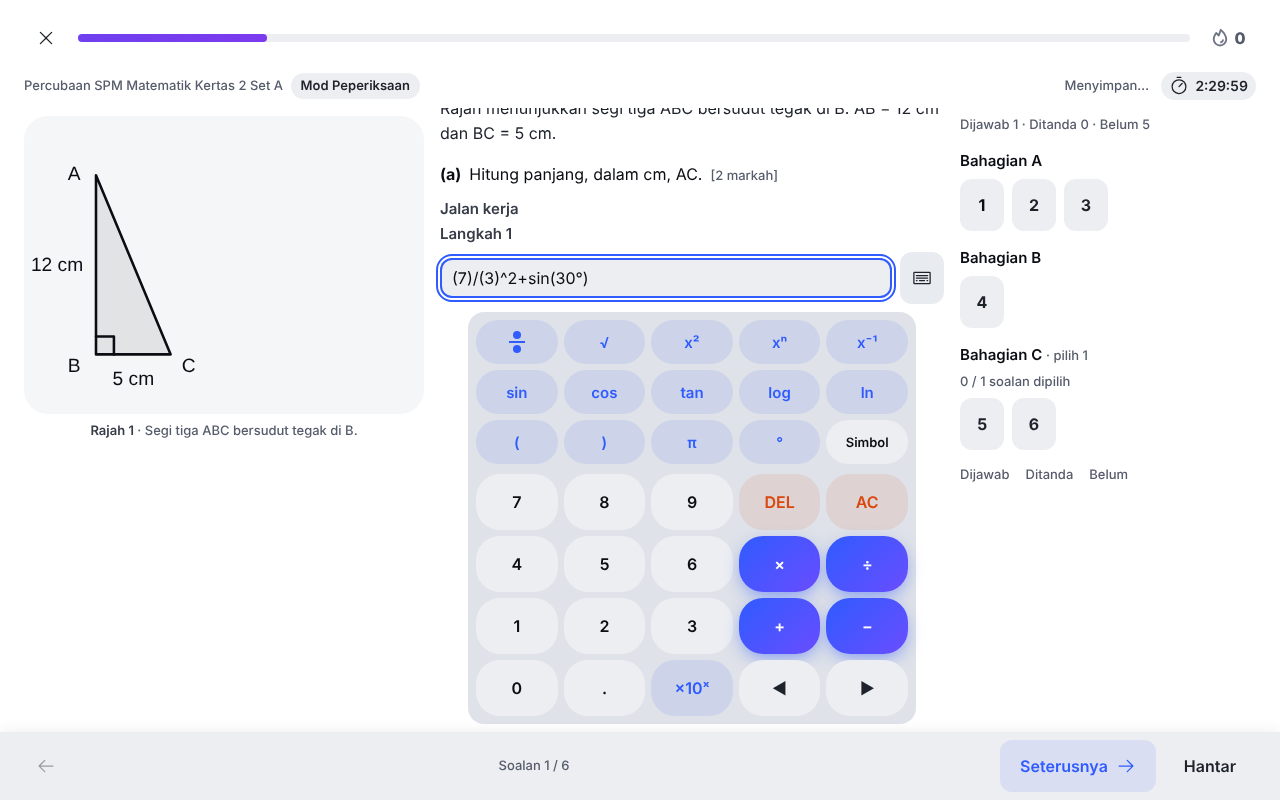
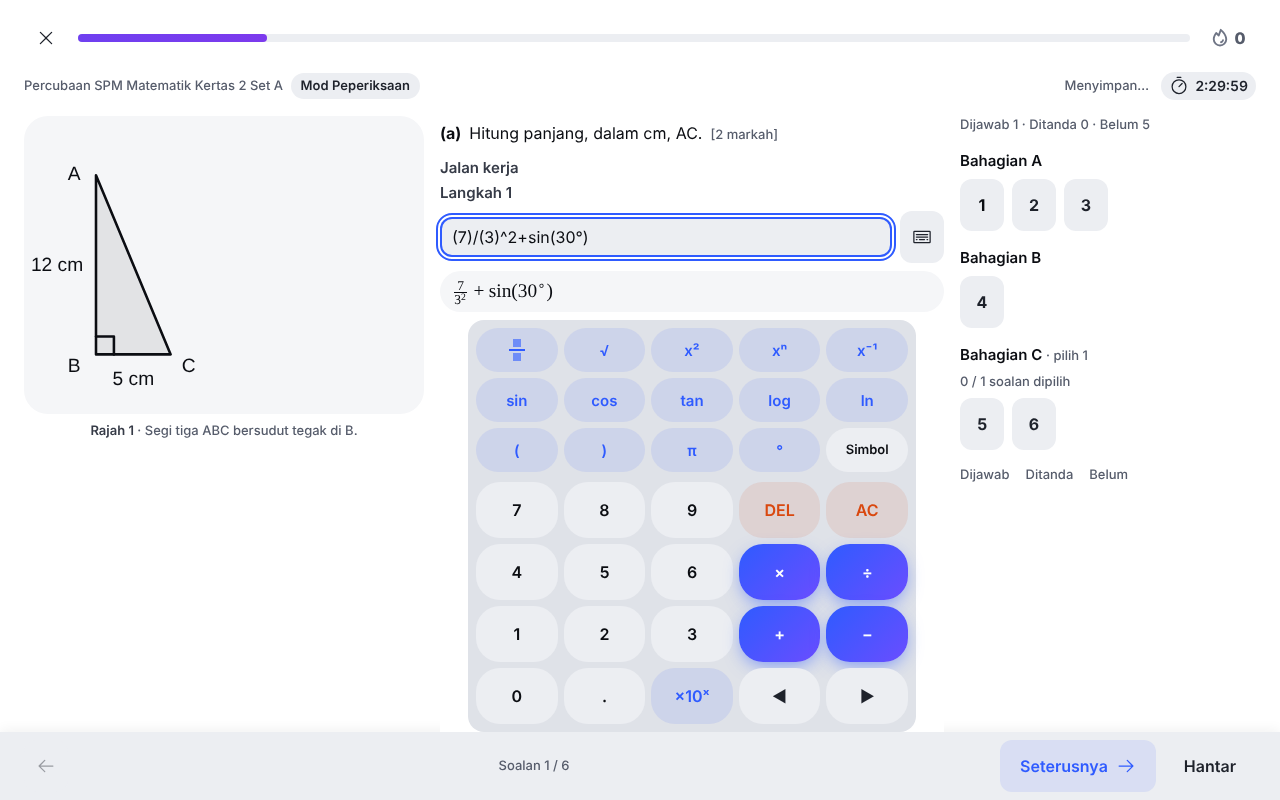
fix(m28-bijak-spm): FB-047 keypad keeps the field and its preview in view
The keypad no longer pushes the answer line out of sight. It is docked at the bottom
of the attempt scroll area: a fixed bottom sheet over the footer below md (with a
spacer so the page still scrolls past it), sticky above the footer from md, so no key
is ever hidden under the footer. Opening it scrolls the input line (and its preview,
when there is room) into the free area above the keypad and below the sticky stimulus
chip. The KaTeX preview now sits between the line and the keypad and shows stacked
fractions (previewLatex: also (7)/(3)^2 -> frac{7}{3^2}), upright sin/cos/tan/log/ln,
the degree sign and a literal %. Only one keypad is open at a time; Esc closes it from
the input line too. Evidence screenshots refreshed to the final layout.

Claude-Session: https://claude.ai/code/session_01TXT87Q9DVT1cfY4XLBf2z9

diff --git a/src/modules/m28-bijak-spm/components/MathField.vue b/src/modules/m28-bijak-spm/components/MathField.vue
@@ -1,13 +1,18 @@
 <script setup lang="ts">
 /**
  * One maths entry line. The student types friendly notation (`1/2`, `x^2`, `√3`, `2×3`) with the
- * keyboard or the on-screen maths keyboard, which also inserts friendly tokens; LaTeX source is never
+ * keyboard or the on-screen maths keypad, which also inserts friendly tokens; LaTeX source is never
  * shown. The stored value is LaTeX (converted on every change) and a KaTeX preview right under the
- * box shows how the line was understood.
+ * box shows how the line was understood (stacked fractions, powers, roots).
+ *
+ * The keypad stays out of the way of the line: it is docked at the bottom edge of the scrolling
+ * area (a bottom sheet over the attempt footer below `md`, sticky above the footer from `md`), the
+ * field and its preview are scrolled into the free area above it, and only one keypad is open.
  */
-import { computed, nextTick, ref, useId, watch } from 'vue'
+import { computed, nextTick, onBeforeUnmount, ref, useId, watch } from 'vue'
 
-import { latexToFriendly, plainToLatex } from '../domain/math-expr'
+import { latexToFriendly, plainToLatex, previewLatex } from '../domain/math-expr'
+import { openKeypad } from '../lib/keypad-owner'
 import { applyKey, type KeyPress } from '../lib/math-keys'
 import MathKeyboard from './MathKeyboard.vue'
 import RichText from './RichText.vue'
@@ -30,7 +35,8 @@ const emit = defineEmits<{ 'update:modelValue': [string]; remove: [] }>()
 
 const id = useId()
 const wrap = ref<HTMLElement | null>(null)
-const keypad = ref(false)
+const dock = ref<HTMLElement | null>(null)
+const keypad = computed(() => openKeypad.value === id)
 /** What the student sees and edits (friendly notation); the LaTeX is derived from it. */
 const text = ref(latexToFriendly(props.modelValue))
 
@@ -48,6 +54,7 @@ function input(): HTMLInputElement | null {
 
 /** The preview shows once there is something to show (an empty `()/()` template is not content). */
 const hasContent = computed(() => text.value.replace(/[()/\s^√]/g, '').length > 0)
+const preview = computed(() => previewLatex(text.value))
 
 function setText(v: string): void {
   text.value = v
@@ -68,18 +75,94 @@ async function onKey(k: KeyPress): Promise<void> {
   if (r.text !== v) setText(r.text)
   await nextTick()
   const again = input()
-  again?.focus()
+  again?.focus({ preventScroll: true })
   again?.setSelectionRange(r.caret, r.caret)
 }
 
-function toggleKeypad(): void {
-  keypad.value = !keypad.value
-  if (keypad.value) void nextTick(() => input()?.focus())
+/** The nearest ancestor that scrolls vertically (the attempt's scroll area). */
+function scrollParent(el: HTMLElement | null): HTMLElement | null {
+  for (let p = el?.parentElement ?? null; p; p = p.parentElement) {
+    const o = getComputedStyle(p).overflowY
+    if (o === 'auto' || o === 'scroll') return p
+  }
+  return null
 }
+
+/** Height of whatever sticks to the top of the scrolling area at `x` (e.g. the stimulus chip). */
+function pinnedTop(sc: HTMLElement, x: number): number {
+  const area = sc.getBoundingClientRect()
+  for (
+    let el = document.elementFromPoint(x, area.top + 1);
+    el && el !== sc;
+    el = el.parentElement
+  ) {
+    if (getComputedStyle(el).position === 'sticky')
+      return el.getBoundingClientRect().bottom - area.top
+  }
+  return 0
+}
+
+/**
+ * Scrolls so the input line, and its preview when there is room, sit in the free area above the
+ * docked keypad and below anything pinned to the top (the keypad covers the bottom of the
+ * scrolling area, so the line would otherwise be hidden under it). The line has priority over its
+ * preview.
+ */
+async function revealField(): Promise<void> {
+  await nextTick()
+  const box = wrap.value
+  const field = input()
+  const sc = scrollParent(box)
+  const sheet = dock.value
+  if (!box || !field || !sc || !sheet) return
+  const area = sc.getBoundingClientRect()
+  const rect = sheet.getBoundingClientRect()
+  const fixed = getComputedStyle(sheet).position === 'fixed'
+  const free = (fixed ? rect.top : area.bottom - rect.height) - 8
+  const f = field.getBoundingClientRect()
+  const top = area.top + pinnedTop(sc, f.left + f.width / 2) + 4
+  const last = box.querySelector('[data-testid=math-preview]') ?? field
+  const delta =
+    f.top < top
+      ? f.top - top
+      : Math.max(0, Math.min(last.getBoundingClientRect().bottom - free, f.top - top))
+  if (delta !== 0) sc.scrollTop += delta
+}
+
+function toggleKeypad(): void {
+  if (keypad.value) {
+    openKeypad.value = null
+    return
+  }
+  openKeypad.value = id
+  void nextTick(() => input()?.focus({ preventScroll: true }))
+  void revealField()
+}
+
+/** Esc closes the open keypad from the input line too (the keypad's own Esc handles its keys). */
+function onEsc(e: KeyboardEvent): void {
+  if (!keypad.value) return
+  e.stopPropagation()
+  closeKeypad()
+}
+
+function closeKeypad(): void {
+  openKeypad.value = null
+  input()?.focus({ preventScroll: true })
+}
+
+// The preview appears under the line once the first characters are typed.
+watch(hasContent, (shown) => {
+  if (shown && keypad.value) void revealField()
+})
+
+onBeforeUnmount(() => {
+  if (openKeypad.value === id) openKeypad.value = null
+})
 </script>
 
 <template>
-  <div ref="wrap" class="flex flex-col gap-2" data-testid="math-field">
+  <div ref="wrap" class="flex flex-col gap-2" data-testid="math-field" @keydown.esc="onEsc">
     <label v-if="!hideLabel" :for="id" class="text-label text-toned">{{ label }}</label>
     <div class="flex items-center gap-2">
       <UInput
@@ -122,19 +205,24 @@ function toggleKeypad(): void {
         @click="emit('remove')"
       />
     </div>
-    <MathKeyboard
-      v-if="keypad"
-      label="Papan kekunci matematik"
-      @press="onKey"
-      @close="keypad = false"
-    />
     <p
       v-if="hasContent"
       class="rounded-xl bg-muted px-3 py-2 text-body text-highlighted"
       data-testid="math-preview"
     >
       <span class="sr-only">Pratonton: </span>
-      <RichText :text="modelValue" math-only />
+      <RichText :text="preview" math-only />
     </p>
+    <template v-if="keypad">
+      <!-- Below md the keypad is a fixed bottom sheet; this spacer keeps the page scrollable past it. -->
+      <div class="h-96 md:hidden" aria-hidden="true" data-testid="math-keyboard-spacer" />
+      <div
+        ref="dock"
+        class="fixed inset-x-0 bottom-0 z-30 bg-accented shadow-bar-up md:sticky md:inset-x-auto md:bottom-0 md:z-20 md:bg-default md:shadow-none"
+        data-testid="math-keyboard-dock"
+      >
+        <MathKeyboard label="Papan kekunci matematik" @press="onKey" @close="closeKeypad" />
+      </div>
+    </template>
   </div>
 </template>

diff --git a/src/modules/m28-bijak-spm/__tests__/math-keypad.test.ts b/src/modules/m28-bijak-spm/__tests__/math-keypad.test.ts
@@ -5,6 +5,7 @@ import { defineComponent, h } from 'vue'
 
 import { formStubs } from '@/test-support/form-stubs'
 
+import { plainToLatex, previewLatex } from '../domain/math-expr'
 import MathField from '../components/MathField.vue'
 import MathKeyboard from '../components/MathKeyboard.vue'
 import {
@@ -226,6 +227,78 @@ describe('MathField with the keypad', () => {
     await w.vm.$nextTick()
     expect((w.get('input').element as HTMLInputElement).value).toBe('')
     expect(w.emitted('update:modelValue')?.at(-1)).toEqual([''])
+    w.unmount()
+  })
+})
+
+describe('keypad keeps the field and its preview in view (FB-047)', () => {
+  const global = {
+    components: { ...formStubs, UButton: UButtonStub, UIcon: { template: '<i />' } },
+  }
+
+  it('previews fractions stacked, also with a power on the denominator', () => {
+    expect(previewLatex('(7)/(3)')).toBe('\\frac{7}{3}')
+    expect(previewLatex('(7)/(3)^2')).toBe('\\frac{7}{3^{2}}')
+    expect(previewLatex('1/2+x^2')).toBe('\\frac{1}{2}+x^{2}')
+    expect(previewLatex('x/y^2')).toBe('\\frac{x}{y^{2}}')
+    expect(previewLatex('()/()')).toBe('\\frac{}{}')
+    // the stored answer is unchanged by the preview conversion
+    expect(plainToLatex('(7)/(3)')).toBe('\\frac{7}{3}')
+    expect(plainToLatex('(7)/(3)^2')).toBe('(7)/(3)^{2}')
+  })
+
+  it('previews functions upright, the degree sign and a literal percent', () => {
+    expect(previewLatex('sin(30°)')).toBe('\\sin (30^{\\circ})')
+    expect(previewLatex('log(100)+ln(e)')).toBe('\\log (100)+\\ln (e)')
+    expect(previewLatex('50%')).toBe('50\\%')
+    expect(previewLatex('2×10^(3)')).toBe('2\\times 10^{3}')
+    expect(previewLatex('')).toBe('')
+  })
+
+  it('renders a stacked fraction in the preview, above the docked keypad', async () => {
+    const w = mount(MathField, {
+      props: { modelValue: '(7)/(3)^{2}', label: 'Langkah 1' },
+      global,
+      attachTo: document.body,
+    })
+    await w.get('[data-testid=math-keypad-toggle]').trigger('click')
+    const preview = w.get('[data-testid=math-preview]')
+    expect(preview.find('.mfrac').exists()).toBe(true)
+    const dock = w.get('[data-testid=math-keyboard-dock]')
+    // DOM order: input line, preview, keypad dock
+    const order = [
+      ...w.element.querySelectorAll(
+        'input, [data-testid=math-preview], [data-testid=math-keyboard-dock]',
+      ),
+    ]
+    expect(
+      order.map((e) => (e.tagName === 'INPUT' ? 'input' : e.getAttribute('data-testid'))),
+    ).toEqual(['input', 'math-preview', 'math-keyboard-dock'])
+    expect(dock.classes()).toContain('fixed')
+    expect(dock.classes()).toContain('md:sticky')
+    expect(w.find('[data-testid=math-keyboard-spacer]').exists()).toBe(true)
+    w.unmount()
+  })
+
+  it('opens one keypad at a time and Escape closes it', async () => {
+    // Both fields in one app: useId gives each its own id there.
+    const Two = {
+      components: { MathField },
+      template:
+        '<div><MathField model-value="" label="Langkah 1" /><MathField model-value="" label="Langkah 2" /></div>',
+    }
+    const w = mount(Two, { global, attachTo: document.body })
+    const toggles = w.findAll('[data-testid=math-keypad-toggle]')
+    const inputs = w.findAll('input')
+    await toggles[0]!.trigger('click')
+    expect(w.findAll('[data-testid=math-keyboard]')).toHaveLength(1)
+    expect(inputs[0]!.attributes('inputmode')).toBe('none')
+    await toggles[1]!.trigger('click')
+    expect(w.findAll('[data-testid=math-keyboard]')).toHaveLength(1)
+    expect(inputs[0]!.attributes('inputmode')).toBe('text')
+    expect(inputs[1]!.attributes('inputmode')).toBe('none')
+    await w.get('[data-testid=math-keyboard]').trigger('keydown', { key: 'Escape' })
+    expect(w.find('[data-testid=math-keyboard]').exists()).toBe(false)
     w.unmount()
   })
 })

diff --git a/src/modules/m28-bijak-spm/components/MathKeyboard.vue b/src/modules/m28-bijak-spm/components/MathKeyboard.vue
@@ -46,20 +46,20 @@ function press(k: MathKey): void {
 
 <template>
   <div
-    class="mx-auto flex w-full max-w-md flex-col gap-1.5 rounded-card bg-accented p-2"
+    class="mx-auto flex w-full max-w-md flex-col gap-1 rounded-card bg-accented p-1.5 sm:gap-1.5 sm:p-2"
     role="group"
     :aria-label="label"
     data-testid="math-keyboard"
     @keydown.esc.stop="emit('close')"
   >
     <div
-      class="flex flex-col gap-1.5"
+      class="flex flex-col gap-1 sm:gap-1.5"
       :data-testid="symbols ? 'math-area-simbol' : 'math-area-fungsi'"
     >
       <div
         v-for="(row, r) in symbols ? SYMBOL_ROWS : FUNCTION_ROWS"
         :key="`${symbols}-${r}`"
-        class="grid grid-cols-5 gap-1.5"
+        class="grid grid-cols-5 gap-1 sm:gap-1.5"
       >
         <UButton
           v-for="k in row"
@@ -78,14 +78,14 @@ function press(k: MathKey): void {
             class="flex flex-col items-center gap-0.5"
             aria-hidden="true"
           >
-            <span class="size-2 rounded-xs bg-primary-t" />
+            <span class="size-2 rounded-none bg-primary-t opacity-60" />
             <span class="h-0.5 w-4 bg-primary-t" />
-            <span class="size-2 rounded-xs bg-primary-t" />
+            <span class="size-2 rounded-none bg-primary-t opacity-60" />
           </span>
           <template v-else>{{ k.label }}</template>
         </UButton>
       </div>
-      <div class="grid grid-cols-5 gap-1.5">
+      <div class="grid grid-cols-5 gap-1 sm:gap-1.5">
         <UButton
           v-for="k in SHARED_KEYS"
           :key="k.id"
@@ -114,8 +114,8 @@ function press(k: MathKey): void {
       </div>
     </div>
 
-    <div class="mt-1 flex flex-col gap-1.5" data-testid="math-area-number">
-      <div v-for="(row, r) in NUMBER_ROWS" :key="r" class="grid grid-cols-5 gap-1.5">
+    <div class="mt-1 flex flex-col gap-1 sm:gap-1.5" data-testid="math-area-number">
+      <div v-for="(row, r) in NUMBER_ROWS" :key="r" class="grid grid-cols-5 gap-1 sm:gap-1.5">
         <UButton
           v-for="k in row"
           :key="k.id"

diff --git a/src/modules/m28-bijak-spm/domain/math-expr.ts b/src/modules/m28-bijak-spm/domain/math-expr.ts
@@ -821,3 +821,24 @@ export function latexToFriendly(latex: string): string {
     .replace(/\\,|\\ /g, ' ')
   return s
 }
+
+const FRAC_OPERAND = '(\\d+(?:\\.\\d+)?|[a-zA-Z]|\\([^()]*\\))'
+
+/**
+ * LaTeX for the live preview of a friendly line, so the student sees what was understood: stacked
+ * fractions (also when the denominator has a power, `(7)/(3)^2` -> `\frac{7}{3^{2}}`), upright
+ * `\sin \cos \tan \log \ln`, `°` as a degree sign and a literal `%`. Preview only: the stored value
+ * stays `plainToLatex(friendly)`.
+ */
+export function previewLatex(friendly: string): string {
+  if (!friendly) return ''
+  const unwrap = (x: string): string => (x.startsWith('(') ? x.slice(1, -1) : x)
+  return plainToLatex(friendly)
+    .replace(
+      new RegExp(`${FRAC_OPERAND}\\s*\\/\\s*${FRAC_OPERAND}\\^\\{([^{}]*)\\}`, 'g'),
+      (_m, a: string, b: string, p: string) => `\\frac{${unwrap(a)}}{${unwrap(b)}^{${p}}}`,
+    )
+    .replace(/(?<![\\a-zA-Z])(sin|cos|tan|log|ln)(?![a-zA-Z])/g, '\\$1 ')
+    .replace(/°/g, '^{\\circ}')
+    .replace(/(?<!\\)%/g, '\\%')
+}

diff --git a/src/modules/m28-bijak-spm/lib/keypad-owner.ts b/src/modules/m28-bijak-spm/lib/keypad-owner.ts
@@ -1,0 +1,7 @@
+import { ref } from 'vue'
+
+/**
+ * Id of the MathField whose keypad is open (null = none). One keypad at a time: the keypad is
+ * docked at the bottom of the screen, so two open ones would sit on top of each other.
+ */
+export const openKeypad = ref<string | null>(null)
